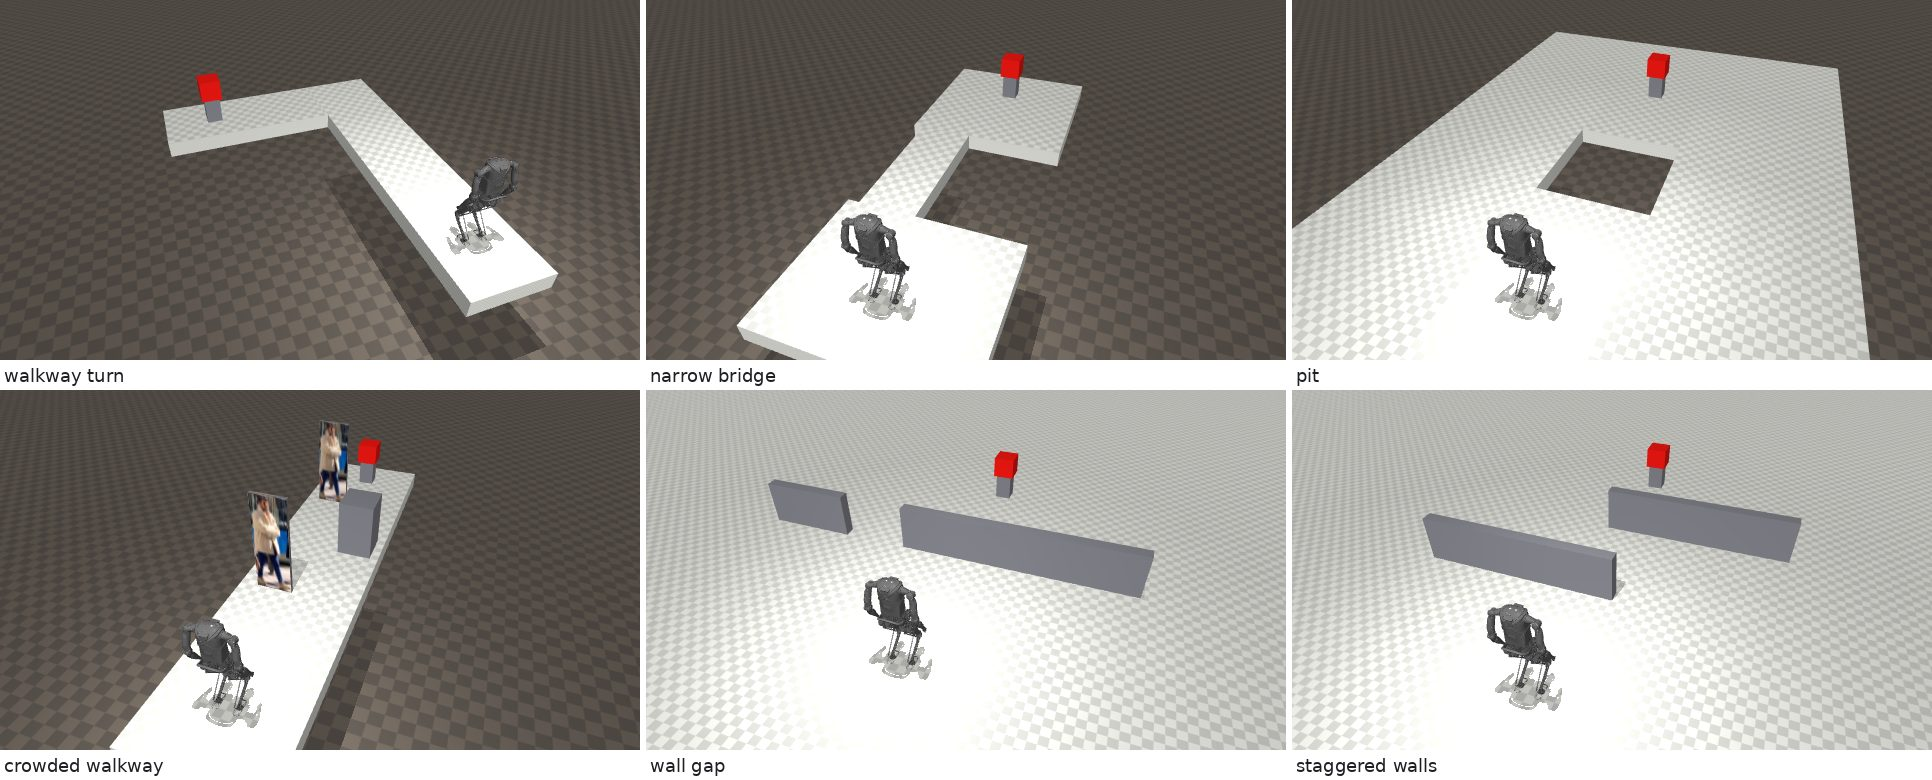
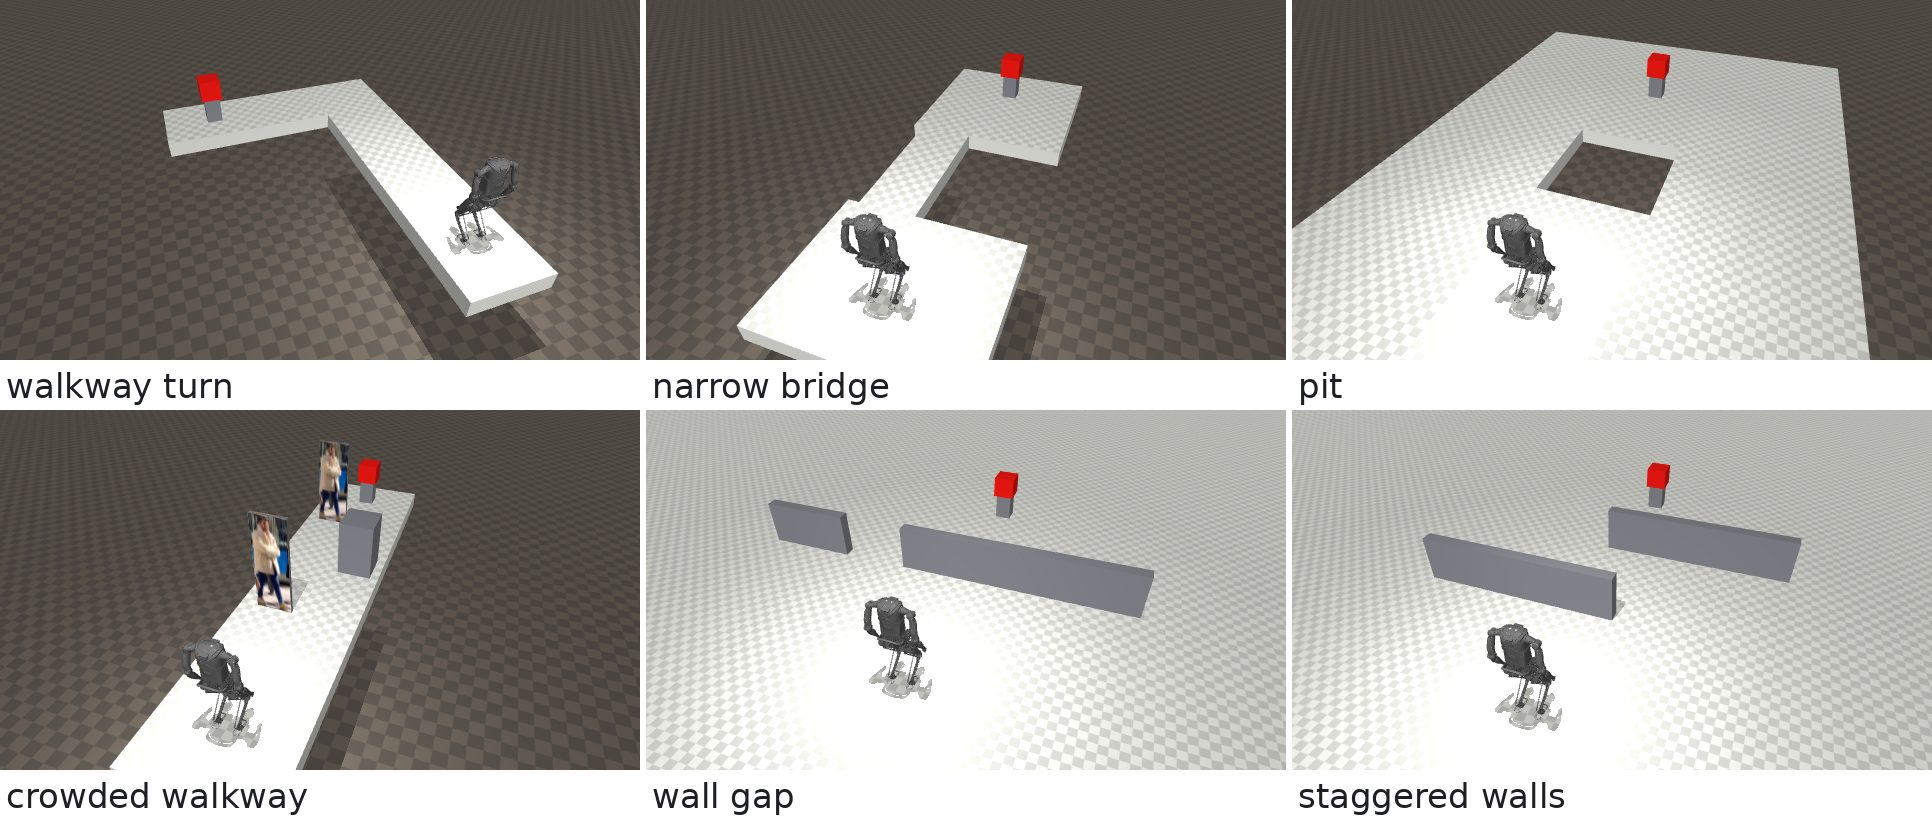
REPORT: readable image labels, wrapped JSON, consistent numbers

diff --git a/docs/figures.py b/docs/figures.py
@@ -26,9 +26,9 @@ OUT = Path(__file__).parent / "img"
 BLUE, GREY, INK, QUIET, RULE, RED = "#2f6fdf", "#8a9099", "#1d1f23", "#6b7078", "#e4e6ea", "#d0352b"
 BRAINS = {"jev": BLUE, "heuristic": GREY}
 try:
-    FONT = ImageFont.truetype("/usr/share/fonts/truetype/dejavu/DejaVuSans.ttf", 18)
+    FONT = ImageFont.truetype("/usr/share/fonts/truetype/dejavu/DejaVuSans.ttf", 34)
 except OSError:
-    FONT = ImageFont.load_default(size=18)
+    FONT = ImageFont.load_default(size=34)
 rows = {(r["scenario"], r["brain"]): r for r in csv.DictReader(open(RUN / "episodes.csv"))}
 courses = [c for c in SCENARIOS if (c, "jev") in rows]
 
@@ -79,7 +79,7 @@ def yolo_overlay(rgb):
     return r.plot()[..., ::-1]
 
 
-def labelled_grid(images, labels, cols, out, label_h=30):
+def labelled_grid(images, labels, cols, out, label_h=50):
     w, h = images[0].shape[1], images[0].shape[0]
     rows_n = math.ceil(len(images) / cols)
     sheet = Image.new("RGB", (cols * w + (cols - 1) * 6, rows_n * (h + label_h)), "white")
@@ -87,7 +87,7 @@ def labelled_grid(images, labels, cols, out, label_h=30):
     for i, (im, label) in enumerate(zip(images, labels)):
         x, y = (i % cols) * (w + 6), (i // cols) * (h + label_h)
         sheet.paste(Image.fromarray(im), (x, y))
-        draw.text((x + 4, y + h + 5), label, fill=INK, font=FONT)
+        draw.text((x + 6, y + h + 6), label, fill=INK, font=FONT)
     sheet.save(out, quality=82)
 
 
@@ -102,10 +102,6 @@ def photos():
     names = [c.replace("_", " ") for c in courses]
     labelled_grid(overviews, names, 3, OUT / "courses.jpg")
     labelled_grid(cameras, names, 3, OUT / "camera_start.jpg")
-    r = Renderer(courses[0])
-    r.place()
-    cam = r.overview([0, 0, 0.75], distance=2.8, azimuth=200, elevation=-10)
-    Image.fromarray(cam[:, 120:520]).save(OUT / "robot.jpg", quality=85)
 
 
 def film_strip(course):
@@ -119,13 +115,13 @@ def film_strip(course):
         for i in picks:
             x, y, z, yaw = log[i]["pose"]
             r.place(x, y, z, yaw)
-            frames.append(np.array(Image.fromarray(yolo_overlay(r.camera())).resize((320, 181))))
-            labels.append(f"{brain} · {log[i]['t']:.0f} s")
+            frames.append(np.array(Image.fromarray(yolo_overlay(r.camera())).resize((424, 240))))
+            labels.append(f"{'Jev' if brain == 'jev' else 'rule'} · {log[i]['t']:.0f} s")
         end = r.overview([x, y, 0.3], distance=5.5, azimuth=math.degrees(yaw) + 200, elevation=-35)
-        frames.append(np.array(Image.fromarray(end).resize((320, 181))))
-        labels.append(f"{brain} · end: {rows[(course, brain)]['outcome']}")
+        frames.append(np.array(Image.fromarray(end).resize((424, 240))))
+        labels.append(f"{'Jev' if brain == 'jev' else 'rule'} · end")
         strips += list(zip(frames, labels))
-    labelled_grid([f for f, _ in strips], [lab for _, lab in strips], 5, OUT / f"film_{course}.jpg", label_h=28)
+    labelled_grid([f for f, _ in strips], [lab for _, lab in strips], 5, OUT / f"film_{course}.jpg", label_h=46)
 
 
 # ---- charts (standalone SVG) -----------------------------------------------------------------------

diff --git a/REPORT.md b/REPORT.md
@@ -12,7 +12,7 @@ Exploratory report · October 2026 · benchmark run `20261010-221313`
   motions, one decision per second, and a red goal cube that is in view from the start. No map, no planner, no pose for the
   decision maker. A short hand-written rule over the same inputs is the baseline.
 - **Result.** In 12 episodes (6 courses × 2 decision makers) nobody fell and nobody reached the cube within 90 s.
-  Jev covered 46% of the start-to-cube distance on average, the baseline 33%; Jev was ahead on 4 of 6 courses.
+  Jev covered 47% of the start-to-cube distance on average, the baseline 33%; Jev was ahead on 4 of 6 courses.
 - **Lessons.**
   1. A single "pick the action" question let Jev walk off every raised edge. Splitting the judgment into a safety `Noul` and a
      progress `Score` per motion, with the safety margin enforced in code, removed the falls.
@@ -20,8 +20,6 @@ Exploratory report · October 2026 · benchmark run `20261010-221313`
      walls and edges. Perception and Jev's latency (0.24 s per decision) are not the bottleneck.
 
 ## Setup
-
-<img src="docs/img/robot.jpg" width="200" align="right" alt="Kangaroo, 4dof arms">
 
 | Part | Choice |
 | --- | --- |
@@ -68,9 +66,12 @@ afterwards, the distance to the nearest obstacle and to where the floor ends, an
 {
   "goal": {"visible": true, "distance_m": 4.6, "bearing_deg": 33},
   "options": {
-    "forward":  {"path_clear_m": 4.0, "floor_ends_m": 4.0, "free_run_m": 4.0, "goal_bearing_after_deg": 33},
-    "left":     {"path_clear_m": 4.0, "floor_ends_m": 1.0, "free_run_m": 1.0, "goal_bearing_after_deg": 5},
-    "right":    {"path_clear_m": 4.0, "floor_ends_m": 1.0, "free_run_m": 1.0, "goal_bearing_after_deg": 61},
+    "forward":  {"path_clear_m": 4.0, "floor_ends_m": 4.0, "free_run_m": 4.0,
+                 "goal_bearing_after_deg": 33},
+    "left":     {"path_clear_m": 4.0, "floor_ends_m": 1.0, "free_run_m": 1.0,
+                 "goal_bearing_after_deg": 5},
+    "right":    {"path_clear_m": 4.0, "floor_ends_m": 1.0, "free_run_m": 1.0,
+                 "goal_bearing_after_deg": 61},
     "backward": {"path_clear_m": 4.0, "floor_ends_m": 4.0, "free_run_m": 4.0}
   },
   "objects": [],
@@ -96,7 +97,7 @@ free run, else keep walking where it is open.
 | --- | --- | --- |
 | One `Choice` picks the motion; goal from the simulator pose | 5 flat courses | Jev reached 1 of 5, baseline 4 of 5. Jev kept walking with an obstacle 0.9 m ahead and walked away from a goal behind it. |
 | One `Choice`; goal found by the camera | 6 raised and wall courses | Jev walked off an edge on all 4 raised courses, confidence rising to 0.98 as the edge closed in. 0 of 6 reached. |
-| Fan-out of `Noul` + `Score` per motion, policy in code (this report) | 6 courses, goal in view | No falls. 0 of 6 reached; progress 46% vs 33%. |
+| Fan-out of `Noul` + `Score` per motion, policy in code (this report) | 6 courses, goal in view | No falls. 0 of 6 reached; progress 47% vs 33%. |
 
 ## Results
 
@@ -133,7 +134,8 @@ with no API errors in 349 requests.
 
 - **Dithering.** Turns are 62–92% of all decisions, with up to 27 left/right flips in an episode. Near a wall or an edge the
   veto blocks forward, each turn looks best on its own, and nothing records which side was already tried.
-  The wall gap shows it: both decision makers swing back and forth in front of the wall.
+  The wall gap shows it: Jev turns back and forth (10 flips) and keeps facing the wall; the baseline turns away and wanders
+  along it without finding the gap.
 
   ![Wall gap, camera along the way](docs/img/film_wall_gap.jpg)
 - **Narrow passages.** The bridge is offset from the robot's line, so getting onto it takes a sidestep: turn, walk, turn back.
